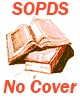
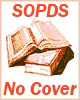
Fix error in sopds_main.html design

diff --git a/sopds_web_backend/templates/sopds_main.html b/sopds_web_backend/templates/sopds_main.html
@@ -11,53 +11,42 @@
 </head>
 
 <body>
-<div class="row"><div class="column large-12" style="background-color: white; padding:0;">
+<div class="row"><div class="large-12 column">
      {% include "sopds_top.html" %}
 </div></div>
-<div class="row"><div class="column large-12" style="background-color: white; padding:0;">
+
+<div class="row"><div class="large-12 column">
      {% include "sopds_logo.html" %}
 </div></div>
 
-<div class="row">
-<div class="column large-12" style="background-color: white;">
-
-    <div class="row"><div class="large-12 column">
-        {% include "sopds_menu.html" %}
-    </div></div>
-
-    {% if system_message %}
-    <div class="row"><div class="large-12 column">
-        {% include "sopds_messages.html" %}
-    </div></div>
-    {% endif %}
-
-    {% if not user.is_authenticated %}
-    <div class="row"><div class="large-12 column">
-        {# {% include "registration/login.html" %} #}
-    </div></div>
-    {% endif %}
-    
-    
-    {% block content %}
-    <div class="row">   
-        <div class="large-12 column">
-        {% block body %}
-
-        {% endblock %}  {# body #}
-    	</div>  
-    </div>
-    {% endblock %}  {# content #}
-
+<div class="row"><div class="large-12 column">
+     {% include "sopds_menu.html" %}
 </div></div>
 
-</div>
-</div>
+{% if system_message %}
+<div class="row"><div class="large-12 column">
+     {% include "sopds_messages.html" %}
+</div></div>
+{% endif %}
 
-<div class="row">
-<div class="column large-12" style="background-color: white; padding:0">
+{% if not user.is_authenticated %}
+<div class="row"><div class="large-12 column">
+    {# {% include "registration/login.html" %} #}
+</div></div>
+{% endif %}
+
+{% block content %}
+<div class="row"><div class="large-12 column">
+    {% block body %}
+
+    {% endblock %}  {# body #}
+</div></div>
+{% endblock %}  {# content #}
+
+
+<div class="row"><div class="large-12 column">
       {% include "sopds_footer.html" %}
-</div>
-</div>
+</div></div>
 
   <script src="{% static "js/vendor/jquery.js" %}"></script>
   <script src="{% static "js/vendor/foundation.min.js" %}"></script>